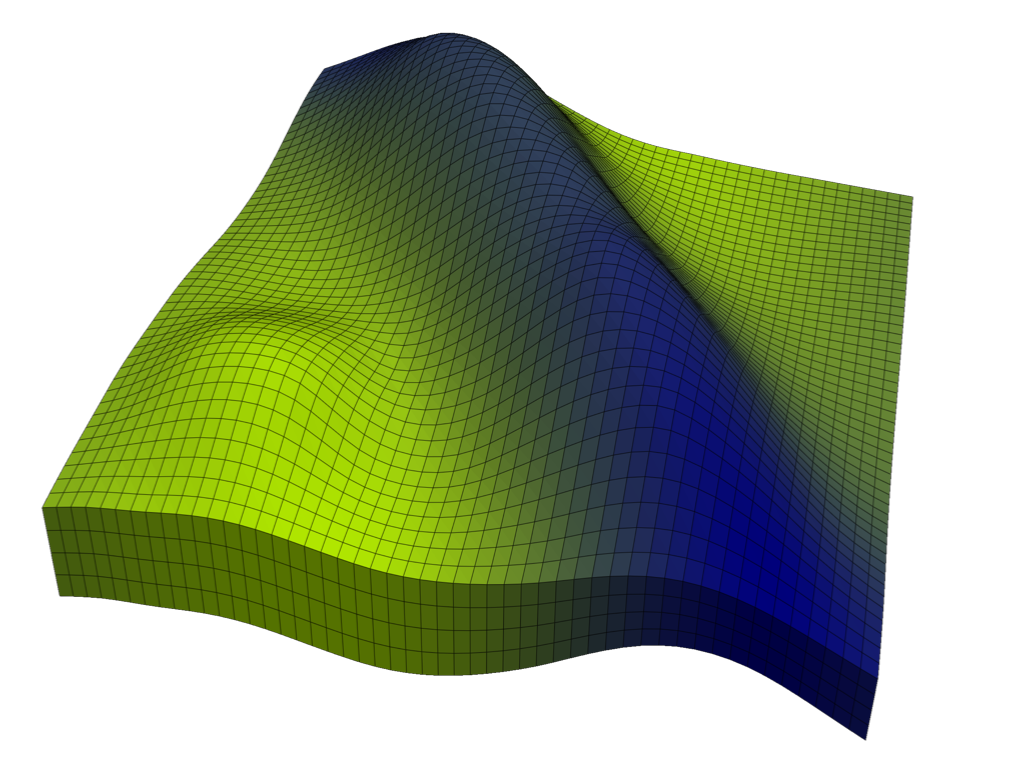
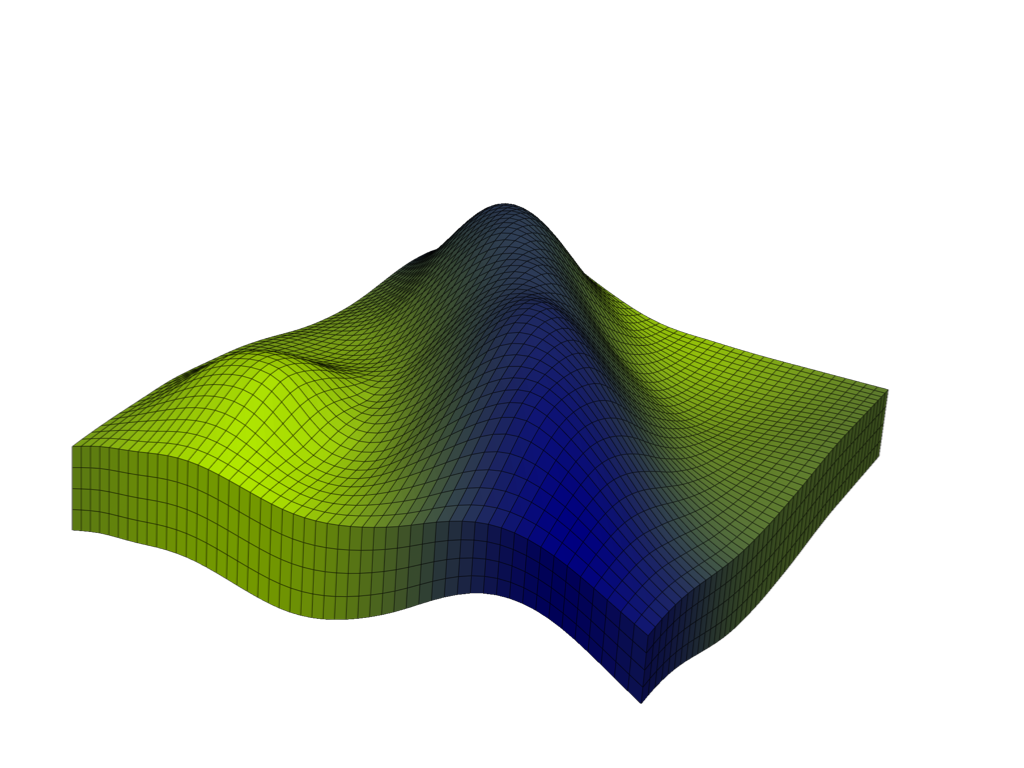
Refactor code structure for improved readability and maintainability

diff --git a/slides/src/assets/static/css/main-page.css b/slides/src/assets/static/css/main-page.css
@@ -7,21 +7,24 @@
     background: linear-gradient(135deg, var(--color-primary) 0%, var(--color-primary-dark) 100%);
 }
 .main-page.light{
-    background: linear-gradient(135deg, var(--color-primary-soft) 0%, var(--color-primary) 100%);
+    background: linear-gradient(135deg, var(--color-white) 0%, var(--color-primary-soft) 100%);
 }
 
 .main-page .header {
     flex: 1;
+    z-index: 2;
 }
 .main-page .content {
     flex: 1.5;
     align-items: flex-start;
+    z-index: 2;
 }
 .main-page .footer {
     flex: 1;
     display: flex;
     justify-content: space-between;
     align-items: flex-end;
+    z-index: 2;
 }
 
 .main-page .logo {
@@ -38,9 +41,11 @@
 .main-page.dark .title{
     /* color: var(--color-white); */
     color: var(--color-secondary);
-
 }
-
+.main-page.light .title{
+    /* color: var(--color-white); */
+    color: var(--color-primary);
+}
 
 /* Title */
 .main-page .title {
@@ -63,6 +68,18 @@
 
 .main-page .description {
     /* max-width: 90%; */
+}
+
+/* Optional image */
+.main-page .image {
+    right: -32%;
+    /* top: 50%; */
+    /* transform: translateY(-50%); */
+    z-index: 1;
+    position: absolute;
+    opacity: 94%;
+    bottom: -28%;
+    width: 108%;
 }
 
 

diff --git a/slides/src/assets/templates/main_page.html b/slides/src/assets/templates/main_page.html
@@ -1,4 +1,7 @@
 <section class="slide-page main-page {{ theme }}">
+    {% if image_src %}
+        <img class="image" src="{{ image_src }}" alt="">
+    {% endif %}
     <div class="header">
         {% if logo_src %}
             <img class="logo" src="{{ logo_src }}" alt="logo">

diff --git a/slides/preview.py b/slides/preview.py
@@ -61,43 +61,46 @@ poll();
 
 
 def build_preview_deck() -> SlideDeck:
-    """Edit this to preview whatever page(s) you're working on."""
+    sys.path.insert(0, str(Path(__file__).resolve().parent.parent))
+
+    from slides import CodeSnippet, MainPage, SlideDeck, Outro
+
     deck = SlideDeck(width=1350, height=1080)
+
     deck.add(
         MainPage(
-            title="Zone Modeling",
-            description="Create zones from horizons and divide them into layers.",
-            theme="dark",
+            title="Grid Modeling",
+            description="Build and export a Corner-Point grid from horizons, zones, and pillars.",
+            image=r"C:\Users\Tayfun\Desktop\GitHub\Personal\petres\slides\examples\grid_modeling\assets\grid-preview.png",
+            theme="light",
             logo=True,
             footer_left="petres.io",
             footer_right="Swipe →",
         )
     )
 
-    
-    # Each CodeSnippet is highlighted in isolation (its own jedi.Script), so a
-    # later step referencing names an earlier step defined (horizon, zone,
-    # np) can't resolve them on its own -- pass the earlier steps' code as
-    # context= so jedi can still infer types, without it being rendered.
-    step1_code = """
-    from petres.interpolators import IDWInterpolator
-    from petres.models import Horizon
 
-    horizon = Horizon(
-        name="Top Layer",
-        xy=[[20, 78], [70, 80], [32, 55]],
-        depth=[100, 110, 90],
-        interpolator=IDWInterpolator(power = 2)
+    step1_code = """
+    from petres.models import Zone
+
+    zone = Zone(
+        name="Reservoir",
+        top=h1,
+        base=h2,
     )
-            """
+
+    zone.divide(nk=4)
+    """
+
     deck.add(
         CodeSnippet(
             header_left="STEP 01",
             header_right_first="Tutorials",
-            header_right_second="Zone Modeling",
-            title="Define a Horizon",
-            description="Start with a few depth measurements and turn them into a continuous horizon.",
+            header_right_second="Grid Modeling",
+            title="Define the Zones",
+            description="Define the vertical intervals and their layer discretization.",
             code=step1_code,
+            code_preview=r"C:\Users\Tayfun\Desktop\GitHub\Personal\petres\slides\examples\grid_modeling\assets\zone.png",
             footer_right="1 / 3",
             theme="light",
         )
@@ -105,61 +108,65 @@ def build_preview_deck() -> SlideDeck:
 
 
     step2_code = """
-import numpy as np
+    from petres.grids import PillarGrid
 
-zone = horizon.to_zone(
-    name="Reservoir",
-    depth=20
-)
+    pillars = PillarGrid.from_regular(
+        xlim=(0, 100),
+        ylim=(0, 100),
+        ni=50,
+        nj=50,
+    )
+    """
 
-zone.show(
-    x=np.linspace(0, 100, 50),
-    y=np.linspace(0, 100, 50)
-)
-            """
     deck.add(
         CodeSnippet(
             header_left="STEP 02",
             header_right_first="Tutorials",
-            header_right_second="Zone Modeling",
-            title="Create a Zone",
-            description="Turn the horizon into a zone by giving it a defined thickness.",
+            header_right_second="Grid Modeling",
+            title="Create the Pillars",
+            description="Define the lateral grid geometry.",
             code=step2_code,
-            context=step1_code,
-            code_preview=r"C:\Users\Tayfun\Desktop\GitHub\Personal\petres\slides\examples\zone_modeling\assets\zone.png",
+            code_preview=r"C:\Users\Tayfun\Desktop\GitHub\Personal\petres\slides\examples\grid_modeling\assets\pillars.png",
             footer_right="2 / 3",
             theme="light",
         )
     )
 
+
+    step3_code = """
+    from petres.grids import CornerPointGrid
+
+    grid = CornerPointGrid.from_zones(
+        pillars=pillars,
+        zones=[zone],
+    )
+
+    grid.show(z_scale=5)
+    grid.to_grdecl("model.GRDECL")
+    """
+
     deck.add(
         CodeSnippet(
             header_left="STEP 03",
             header_right_first="Tutorials",
-            header_right_second="Zone Modeling",
-            title="Subdivide the Zone",
-            description="Divide the zone into three layers based on their relative thickness.",
-            code="""
-zone.divide(fractions=[0.3, 0.5, 0.2])
-
-zone.show(
-    x=np.linspace(0, 100, 50),
-    y=np.linspace(0, 100, 50)
-)
-            """,
+            header_right_second="Grid Modeling",
+            title="Build and Export the Grid",
+            description="Combine the zones and pillars to construct the Corner-Point grid and and export it to Eclipse GRDECL format.",
+            code=step3_code,
             context=step1_code + step2_code,
-            code_preview=r"C:\Users\Tayfun\Desktop\GitHub\Personal\petres\slides\examples\zone_modeling\assets\layering.png",
+            code_preview=r"C:\Users\Tayfun\Desktop\GitHub\Personal\petres\slides\examples\grid_modeling\assets\grid.png",
             footer_right="3 / 3",
             theme="light",
         )
     )
+
+
     deck.add(
         Outro(
             title="Explore Further",
             theme="dark",
             logo=True,
             footer_left="petres.io",
-
             footer_left_title="TUTORIALS & DOCUMENTATION",
             footer_right_title="SOURCE CODE",
             footer_right="github.com/jamalbaylit/petres",

diff --git a/slides/src/components.py b/slides/src/components.py
@@ -31,6 +31,7 @@ class MainPage:
         logo: bool = False,
         footer_left: str | None = None,
         footer_right: str | None = None,
+        image: str | Path | None = None,
     ):
         self.title = title
         self.description = description
@@ -38,15 +39,23 @@ class MainPage:
         self.logo = logo
         self.footer_left = footer_left
         self.footer_right = footer_right
+        self.image = Path(image) if image else None
 
     def _template_context(self) -> dict:
         logo_path = _LOGOS.get(self.theme) if self.logo else None
         logo_src = to_data_uri(logo_path) if logo_path and logo_path.exists() else None
+        image_src = None
+        if self.image:
+            if self.image.exists():
+                image_src = to_data_uri(self.image)
+            else:
+                warnings.warn(f"MainPage image not found, skipping: {self.image}")
         return {
             "title": self.title,
             "description": self.description,
             "theme": self.theme,
             "logo_src": logo_src,
+            "image_src": image_src,
             "footer_left": self.footer_left,
             "footer_right": self.footer_right,
         }

diff --git a/slides/examples/grid_modeling/main.py b/slides/examples/grid_modeling/main.py
@@ -11,6 +11,7 @@ deck.add(
     MainPage(
         title="Grid Modeling",
         description="Build and export a Corner-Point grid from horizons, zones, and pillars.",
+        image=r"C:\Users\Tayfun\Desktop\GitHub\Personal\petres\slides\examples\grid_modeling\assets\grid-preview.png",
         theme="dark",
         logo=True,
         footer_left="petres.io",

diff --git a/slides/examples/grid_modeling/run.py b/slides/examples/grid_modeling/run.py
@@ -109,7 +109,7 @@ from petres.grids import CornerPointGrid
 viewer = Viewer3D(z_scale=25)
 viewer.add_pillars(pillars)
 viewer.show()
-viewer.screenshot("./assets/pillars.png", transparent=True)
+# viewer.screenshot("./assets/pillars.png", transparent=True)
 
 
 grid = CornerPointGrid.from_zones(
